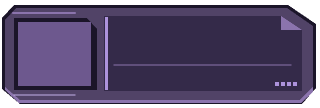
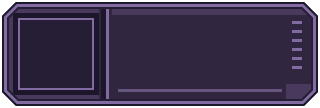
UI: align scene layouts and shared console artwork in visual review branch

diff --git a/Assets/Scripts/Title/SongSelectMenuUI.cs b/Assets/Scripts/Title/SongSelectMenuUI.cs
@@ -359,7 +359,7 @@ public sealed class SongSelectMenuUI : MonoBehaviour
         if(arcadeMotion!=null) arcadeMotion.enabled=false;
         var detail=transform.Find("SelectedTrackPanel") as RectTransform;
         var background=transform.Find("Background")?.GetComponent<Image>();
-        if(background!=null) { background.sprite=null; background.color=new Color32(35,28,48,255); }
+        if(background!=null) { background.sprite=null; background.color=new Color32(29,23,43,255); }
         foreach(Transform child in transform)
             if(child.name.StartsWith("Arcade_",StringComparison.Ordinal) || child.name=="BottomRule")
                 child.gameObject.SetActive(false);
@@ -372,12 +372,18 @@ public sealed class SongSelectMenuUI : MonoBehaviour
                 child.name=="DetailRule" || child.name=="DifficultyLabel" || child.name=="InfoHeading")
                 child.gameObject.SetActive(false);
         var shelfBg=listArea.GetComponent<Image>();
-        if(shelfBg!=null) { shelfBg.sprite=null; shelfBg.color=new Color32(47,38,63,255); }
+        if(shelfBg!=null) { shelfBg.sprite=RuruConsoleUI.Shell; shelfBg.type=Image.Type.Sliced; shelfBg.color=Color.white; }
         var detailBg=detail.GetComponent<Image>();
         if(detailBg!=null) detailBg.color=Color.clear;
 
-        Place(listArea,.045f,.105f,.575f,.825f);
-        Place(detail,.595f,.105f,.955f,.825f);
+        Place(listArea,.040f,.105f,.600f,.835f);
+        Place(detail,.620f,.105f,.960f,.835f);
+        var header = RuruConsoleUI.Frame(transform,"LibraryHeaderHousing",.040f,.850f,.960f,.971f,RuruConsoleUI.Inset);
+        if(background!=null) header.transform.SetSiblingIndex(background.transform.GetSiblingIndex()+1);
+        var footer = RuruConsoleUI.Frame(transform,"LibraryFooterHousing",.040f,.018f,.960f,.091f,RuruConsoleUI.Inset);
+        footer.transform.SetSiblingIndex(header.transform.GetSiblingIndex()+1);
+        RuruConsoleUI.Strip(transform,"LibraryHeaderAccent",.755f,.901f,.925f,.906f,RuruConsoleUI.Lilac);
+        RuruConsoleUI.Text(transform,"LibraryDeviceLabel","PINO / BEAT DECK",.745f,.912f,.925f,.949f,21,RuruConsoleUI.Muted,TextAlignmentOptions.MidlineRight,true);
         Place(transform.Find("PageHeading") as RectTransform,.19f,.875f,.70f,.955f);
         Place(transform.Find("PageSubtitle") as RectTransform,.19f,.84f,.72f,.88f);
         Place(transform.Find("Footnote") as RectTransform,.055f,.025f,.945f,.086f);
@@ -397,8 +403,8 @@ public sealed class SongSelectMenuUI : MonoBehaviour
             if(trackButtons[i]==null) continue;
             var row=trackButtons[i].transform as RectTransform;
             int col=i%2, line=i/2;
-            float l=.027f+col*.477f, b=.54f-line*.225f;
-            Place(row,l,b,l+.465f,b+.212f);
+            float l=.035f+col*.470f, b=.535f-line*.222f;
+            Place(row,l,b,l+.460f,b+.207f);
             row.localRotation=Quaternion.identity;
             row.localScale=Vector3.one;
             foreach(Transform child in row)
@@ -421,7 +427,7 @@ public sealed class SongSelectMenuUI : MonoBehaviour
             if(i<trackRowLabels.Length && trackRowLabels[i]!=null)
             {
                 var title=trackRowLabels[i];
-                Place(title.rectTransform,.365f,.44f,.87f,.83f);
+                Place(title.rectTransform,.365f,.44f,.875f,.83f);
                 title.alignment=TextAlignmentOptions.MidlineLeft;
                 title.font=RuruConsoleUI.Font(); title.enableAutoSizing=true;
                 title.fontSizeMin=15; title.fontSizeMax=31;
@@ -466,7 +472,7 @@ public sealed class SongSelectMenuUI : MonoBehaviour
         if(previewStatus!=null)
         {
             Place(previewStatus.rectTransform,.08f,.20f,.92f,.25f);
-            previewStatus.color=RuruConsoleUI.Ink;previewStatus.alignment=TextAlignmentOptions.MidlineLeft;
+            previewStatus.color=RuruConsoleUI.Paper;previewStatus.alignment=TextAlignmentOptions.MidlineLeft;
         }
         var meter=RuruConsoleUI.Strip(detail,"PreviewMeter",.08f,.17f,.92f,.183f,new Color32(148,126,182,255));
         previewMeter=RuruConsoleUI.Strip(meter.transform,"Fill",0,0,0,1,new Color32(72,49,109,255)).rectTransform;
@@ -959,10 +965,10 @@ public sealed class SongSelectMenuUI : MonoBehaviour
             {
                 bool current=valid && index==selectedIndex;
                 cartridgeFaces[slot].sprite=current?cartridgeActive:cartridgeNormal;
-                Color ink=current?RuruConsoleUI.Ink:RuruConsoleUI.Paper;
+                Color ink=RuruConsoleUI.Paper;
                 if(slot<trackRowLabels.Length && trackRowLabels[slot]!=null) trackRowLabels[slot].color=ink;
-                if(rowNumbers[slot]!=null) rowNumbers[slot].color=current?RuruConsoleUI.Ink:RuruConsoleUI.Muted;
-                if(rowLevelLabels[slot]!=null) rowLevelLabels[slot].color=current?RuruConsoleUI.Ink:RuruConsoleUI.Lilac;
+                if(rowNumbers[slot]!=null) rowNumbers[slot].color=RuruConsoleUI.Muted;
+                if(rowLevelLabels[slot]!=null) rowLevelLabels[slot].color=current?RuruConsoleUI.Mint:RuruConsoleUI.Lilac;
                 if(cartridgeCovers[slot]!=null) cartridgeCovers[slot].sprite=valid && entry.jacket!=null?entry.jacket:cartridgeEmpty;
             }
             else if (slot < trackRowBackgrounds.Length &&

diff --git a/Assets/Scripts/MousePlay/MouseTutorialController.cs b/Assets/Scripts/MousePlay/MouseTutorialController.cs
@@ -714,13 +714,10 @@ public sealed class MouseTutorialController : MonoBehaviour
         AddImage(screen, new Color(.065f, .052f, .085f, .94f), true);
 
         RectTransform panel = AddRect("DialoguePanel", screen,
-            new Vector2(.16f, .10f), new Vector2(.84f, .38f));
+            new Vector2(.11f, .10f), new Vector2(.89f, .38f));
         Image dialoguePanelImage = AddImage(panel,
             new Color(.18f, .14f, .24f, 1f), true);
-        RuruOriginalUITheme originalUI = Resources.Load<RuruOriginalUITheme>("RuruOriginalUITheme");
-        Sprite dialogueArt = originalUI != null && originalUI.confirmationPanel != null
-            ? originalUI.confirmationPanel
-            : Resources.Load<Sprite>("RuruArt/UI/UI_Panel");
+        Sprite dialogueArt = RuruConsoleUI.Shell;
         if (dialogueArt != null)
         {
             dialoguePanelImage.sprite = dialogueArt;
@@ -734,18 +731,19 @@ public sealed class MouseTutorialController : MonoBehaviour
         dialogueHeading = AddLabel(heading, 25f, 
             new Color(.83f, .74f, .90f, 1f), TextAlignmentOptions.Center);
 
+        RuruConsoleUI.Frame(panel,"SpeakerHousing",.025f,.73f,.46f,.94f,RuruConsoleUI.Inset);
+        RuruConsoleUI.Strip(panel,"DialogueSeparator",.035f,.705f,.79f,.715f,RuruConsoleUI.Lilac);
         RectTransform speaker = AddRect("Speaker", panel,
             new Vector2(.035f, .72f), new Vector2(.45f, .91f));
         speakerText = AddLabel(speaker, 30f,
-            dialogueArt != null ? new Color(.15f,.10f,.22f,1f) : Color.white,
+            RuruConsoleUI.Lilac,
             TextAlignmentOptions.MidlineLeft);
         speakerText.fontStyle = FontStyles.Bold;
 
         RectTransform body = AddRect("Dialogue", panel,
             new Vector2(.035f, .27f), new Vector2(.79f, .70f));
         dialogueText = AddLabel(body, 27f,
-            dialogueArt != null ? new Color(.18f,.13f,.25f,1f)
-                : new Color(.94f, .92f, .97f, 1f),
+            RuruConsoleUI.Paper,
             TextAlignmentOptions.MidlineLeft);
         dialogueText.enableWordWrapping = true;
 
@@ -784,10 +782,7 @@ public sealed class MouseTutorialController : MonoBehaviour
         guideRoot = root.gameObject;
         Image guideBackground = AddImage(root,
             new Color(.14f, .11f, .19f, .93f), false);
-        RuruOriginalUITheme originalUI = Resources.Load<RuruOriginalUITheme>("RuruOriginalUITheme");
-        Sprite panelArt = originalUI != null && originalUI.confirmationPanel != null
-            ? originalUI.confirmationPanel
-            : Resources.Load<Sprite>("RuruArt/UI/UI_Panel");
+        Sprite panelArt = RuruConsoleUI.Shell;
         if (panelArt != null)
         {
             guideBackground.sprite = panelArt;
@@ -803,21 +798,19 @@ public sealed class MouseTutorialController : MonoBehaviour
         RectTransform number = AddRect("ChapterIndex", root,
             new Vector2(.075f, .74f), new Vector2(.925f, .86f));
         guideProgress = AddLabel(number, 24f,
-            panelArt != null ? new Color(.35f,.23f,.47f,1f)
-                : new Color(.78f, .70f, .86f, 1f),
+            RuruConsoleUI.Lilac,
             TextAlignmentOptions.MidlineLeft);
 
         RectTransform title = AddRect("ChapterTitle", root,
             new Vector2(.075f, .52f), new Vector2(.925f, .72f));
         guideTitle = AddLabel(title, 26f,
-            panelArt != null ? new Color(.15f,.10f,.22f,1f) : Color.white,
+            RuruConsoleUI.Paper,
             TextAlignmentOptions.MidlineLeft);
 
         RectTransform body = AddRect("ChapterDescription", root,
             new Vector2(.34f, .10f), new Vector2(.93f, .48f));
         guideBody = AddLabel(body, 22f,
-            panelArt != null ? new Color(.25f,.18f,.34f,1f)
-                : new Color(.89f, .86f, .93f, 1f),
+            RuruConsoleUI.Paper,
             TextAlignmentOptions.MidlineLeft);
         guideBody.enableWordWrapping = true;
 
@@ -890,10 +883,8 @@ public sealed class MouseTutorialController : MonoBehaviour
         RectTransform rect = AddRect(name, parent, min, max);
         Image image = AddImage(rect,
             new Color(.36f, .28f, .44f, 1f), true);
-        RuruOriginalUITheme originalUI = Resources.Load<RuruOriginalUITheme>("RuruOriginalUITheme");
-        Sprite buttonArt = originalUI != null && originalUI.titleButton != null
-            ? originalUI.titleButton
-            : Resources.Load<Sprite>("RuruArt/UI/UI_Button");
+        bool primary = name=="NextDialogue" || name=="LeaveTutorial";
+        Sprite buttonArt = primary?RuruConsoleUI.MainKey:RuruConsoleUI.AltKey;
         if (buttonArt != null)
         {
             image.sprite = buttonArt;
@@ -915,7 +906,7 @@ public sealed class MouseTutorialController : MonoBehaviour
         RectTransform textRect = AddRect("Label", rect,
             new Vector2(.02f, .02f), new Vector2(.98f, .98f));
         captionLabel = AddLabel(textRect, 22f,
-            buttonArt != null ? new Color(.15f,.10f,.22f,1f) : Color.white,
+            primary?RuruConsoleUI.Ink:RuruConsoleUI.Paper,
             TextAlignmentOptions.Center);
         captionLabel.text = caption;
         return button;

diff --git a/Assets/MouseMode/MouseGameplayScoreComboHUD.cs b/Assets/MouseMode/MouseGameplayScoreComboHUD.cs
@@ -17,6 +17,7 @@ public sealed class MouseGameplayScoreComboHUD : MonoBehaviour
     private TextMeshProUGUI comboValue;
     private TextMeshProUGUI scoreValue;
     private TMP_Text songTitle, songTime;
+    private Image songCover;
     private RectTransform songProgress;
     private MouseModeChartAsset displayedChart;
     private int displayedSecond=-1;
@@ -33,19 +34,25 @@ public sealed class MouseGameplayScoreComboHUD : MonoBehaviour
         ResolveChartPlayer();
         TMP_FontAsset font = RuruConsoleUI.Font(true) ?? ResolveFont();
 
-        CreateText("Combo_Label", font, "COMBO", 19f,
+        var comboLabel=CreateText("Combo_Label", font, "COMBO", 19f,
             new Vector2(.5f, 1f), new Vector2(124f, -98f),
             new Vector2(105f, 32f), TextAlignmentOptions.MidlineRight, false);
         comboValue = CreateText("Combo_Value", font, "000", 38f,
             new Vector2(.5f, 1f), new Vector2(250f, -90f),
             new Vector2(195f, 54f), TextAlignmentOptions.MidlineLeft, true);
-        CreateText("Score_Label", font, "SCORE", 19f,
+        var scoreLabel=CreateText("Score_Label", font, "SCORE", 19f,
             new Vector2(1f, 1f), new Vector2(-427f, -98f),
             new Vector2(100f, 32f), TextAlignmentOptions.MidlineRight, false);
         scoreValue = CreateText("Score_Value", font, "0000000", 35f,
             new Vector2(1f, 1f), new Vector2(-88f, -90f),
             new Vector2(310f, 54f), TextAlignmentOptions.MidlineRight, true);
 
+        // Align the three live readouts to the existing split HUD artwork.
+        // Preserve the playable field and the source frame itself.
+        PlaceTop(comboLabel,.415f,.505f,88f,38f);
+        PlaceTop(comboValue,.515f,.695f,78f,54f);
+        PlaceTop(scoreLabel,.782f,.845f,88f,38f);
+        PlaceTop(scoreValue,.850f,.950f,78f,54f);
         BuildSongReadout();
         RefreshValues(true);
         RefreshSongReadout();
@@ -70,12 +77,26 @@ public sealed class MouseGameplayScoreComboHUD : MonoBehaviour
         }
     }
 
+    private static void PlaceTop(TMP_Text label,float l,float r,float top,float height)
+    {
+        var rt=label.rectTransform;
+        rt.anchorMin=new Vector2(l,1f); rt.anchorMax=new Vector2(r,1f);
+        rt.pivot=new Vector2(.5f,1f);
+        rt.offsetMin=new Vector2(0f,-top-height); rt.offsetMax=new Vector2(0f,-top);
+        label.enableAutoSizing=true; label.fontSizeMin=label.fontSize*.65f; label.fontSizeMax=label.fontSize;
+        label.overflowMode=TextOverflowModes.Ellipsis;
+    }
+
     private void BuildSongReadout()
     {
-        var root=RuruConsoleUI.Region(transform,"SongReadout",.325f,1,.525f,1);
+        var art=RuruConsoleUI.Region(transform,"SongJacketReadout",.038f,1f,.077f,1f);
+        art.pivot=new Vector2(.5f,1f);
+        art.sizeDelta=new Vector2(0f,68f); art.anchoredPosition=new Vector2(0f,-86f);
+        songCover=art.gameObject.AddComponent<Image>(); songCover.preserveAspect=true; songCover.raycastTarget=false; songCover.enabled=false;
+        var root=RuruConsoleUI.Region(transform,"SongReadout",.095f,1,.325f,1);
         root.pivot=new Vector2(.5f,1);
         root.sizeDelta=new Vector2(0,72);
-        root.anchoredPosition=new Vector2(0,-77);
+        root.anchoredPosition=new Vector2(0,-82);
         songTitle=RuruConsoleUI.Text(root,"SongTitle","",0,.42f,1,1,26,RuruConsoleUI.Paper);
         songTime=RuruConsoleUI.Text(root,"SongTime","00:00",0,0,1,.40f,16,RuruConsoleUI.Muted,TextAlignmentOptions.MidlineRight,true);
         var track=RuruConsoleUI.Strip(root,"Track",0,.23f,.69f,.30f,new Color32(98,78,130,255));
@@ -89,6 +110,11 @@ public sealed class MouseGameplayScoreComboHUD : MonoBehaviour
         {
             displayedChart=chart;
             songTitle.text=chart!=null?chart.displayTitle:"";
+            if(songCover!=null)
+            {
+                songCover.sprite=chart!=null?chart.songSelectJacket:null;
+                songCover.enabled=songCover.sprite!=null;
+            }
             displayedSecond=-1;
         }
         float elapsed=Mathf.Max(0,chartPlayer.SongElapsedSeconds);

diff --git a/Assets/Scripts/MousePlay/MouseModeResultFlow.cs b/Assets/Scripts/MousePlay/MouseModeResultFlow.cs
@@ -279,13 +279,15 @@ public sealed class MouseModeResultFlow : MonoBehaviour
         RectTransform stage=RuruConsoleUI.Stage(screen,"ResultConsoleStage");
         var paper=RuruConsoleUI.Paper; var muted=RuruConsoleUI.Muted;
         var lilac=RuruConsoleUI.Lilac; var center=TextAlignmentOptions.Center;
+        RuruConsoleUI.Frame(stage,"ResultHeaderHousing",.065f,.872f,.935f,.972f,RuruConsoleUI.Inset);
+        RuruConsoleUI.Frame(stage,"ResultActionHousing",.065f,.052f,.935f,.180f,RuruConsoleUI.Inset);
         var logo=RuruConsoleUI.Region(stage,"PinoWingMark",.075f,.885f,.125f,.958f).gameObject.AddComponent<Image>();
         logo.sprite=Resources.Load<Sprite>("RuruArt/UI/PinoWingMark");logo.preserveAspect=true;logo.raycastTarget=false;logo.enabled=logo.sprite!=null;
         RuruConsoleUI.Text(stage,"DeviceId","RURU IN BEAT  /  SESSION LOG",.135f,.895f,.52f,.945f,27,muted,display:true);
         resultLabel=RuruConsoleUI.Text(stage,"Outcome","RESULT",.56f,.885f,.925f,.95f,48,lilac,TextAlignmentOptions.MidlineRight,true);
         RuruConsoleUI.Strip(stage,"HeaderRule",.075f,.878f,.925f,.881f,lilac);
 
-        var visual=RuruConsoleUI.Frame(stage,"PinoMonitor",.075f,.205f,.355f,.85f,RuruConsoleUI.Shell).rectTransform;
+        var visual=RuruConsoleUI.Frame(stage,"PinoMonitor",.065f,.205f,.355f,.85f,RuruConsoleUI.Shell).rectTransform;
         RuruConsoleUI.Text(visual,"MonitorLabel","PINO / STATUS",.08f,.87f,.92f,.96f,26,muted,display:true);
         RuruConsoleUI.Frame(visual,"PortraitWell",.055f,.235f,.945f,.85f,RuruConsoleUI.Inset);
         var ring=RuruConsoleUI.Region(visual,"PinoBeatRing",.10f,.26f,.90f,.83f).gameObject.AddComponent<Image>();
@@ -297,14 +299,15 @@ public sealed class MouseModeResultFlow : MonoBehaviour
         reactionLabel=RuruConsoleUI.Text(visual,"PinoReaction","",.09f,.035f,.91f,.205f,24,paper);
         reactionLabel.enableWordWrapping=true;
 
-        var stats=RuruConsoleUI.Frame(stage,"ResultStatisticsCard",.37f,.205f,.925f,.85f,RuruConsoleUI.Shell).rectTransform;
+        var stats=RuruConsoleUI.Frame(stage,"ResultStatisticsCard",.37f,.205f,.935f,.85f,RuruConsoleUI.Shell).rectTransform;
         songLabel=RuruConsoleUI.Text(stats,"SongTitle","SONG RESULT",.045f,.86f,.955f,.96f,42,paper);
         var score=RuruConsoleUI.Frame(stats,"ScoreDisplay",.04f,.56f,.96f,.85f,RuruConsoleUI.Inset).rectTransform;
         RuruConsoleUI.Text(score,"ScoreCaption","SCORE",.05f,.69f,.60f,.94f,23,muted,display:true);
         scoreLabel=RuruConsoleUI.Text(score,"ScoreValue","0000000",.045f,.17f,.70f,.76f,91,paper,display:true);
-        RuruConsoleUI.Text(score,"RankCaption","RANK",.75f,.71f,.96f,.94f,22,muted,center,true);
+        RuruConsoleUI.Frame(score,"RankBadge",.735f,.09f,.965f,.92f,RuruConsoleUI.Shell);
+        RuruConsoleUI.Text(score,"RankCaption","RANK",.75f,.71f,.96f,.90f,22,muted,center,true);
         rankLabel=RuruConsoleUI.Text(score,"RankValue","-",.75f,.15f,.96f,.75f,92,lilac,center,true);
-        var scoreTrack=RuruConsoleUI.Strip(score,"ScoreTrack",.05f,.075f,.68f,.115f,new Color32(85,72,110,255));
+        var scoreTrack=RuruConsoleUI.Strip(score,"ScoreTrack",.05f,.075f,.68f,.115f,new Color32(103,84,127,255));
         scoreFill=RuruConsoleUI.Strip(scoreTrack.transform,"ScoreFill",0,0,0,1,lilac).rectTransform;
 
         string[] j={"PERFECT","GREAT","GOOD","MISS"};

diff --git a/Assets/Scripts/Title/SettingsCategoryController.cs b/Assets/Scripts/Title/SettingsCategoryController.cs
@@ -63,6 +63,7 @@ public class SettingsCategoryController : MonoBehaviour
                     categories[i].button,
                     index
                 );
+                StyleCategory(categories[i]);
             }
 
             // 시작할 때 Focus 전부 숨김
@@ -80,6 +81,50 @@ public class SettingsCategoryController : MonoBehaviour
             if (category.page != null && category.page.name == "ControlPage")
                 BuildMouseControlGuide(category.page.transform);
         RefreshSelected();
+    }
+
+    // Keep the authored window and its controls. Replace only the category
+    // chrome so selected, hovered and idle states use the shared deck art.
+    private static void StyleCategory(CategoryItem item)
+    {
+        if(item.button==null) return;
+        var baseImage=item.button.GetComponent<Image>();
+        if(baseImage!=null)
+        {
+            baseImage.sprite=RuruConsoleUI.AltKey;
+            baseImage.type=Image.Type.Sliced;
+            baseImage.color=Color.white;
+        }
+        if(item.selectedBG!=null)
+        {
+            var art=item.selectedBG.GetComponent<Image>();
+            if(art!=null)
+            {
+                art.sprite=RuruConsoleUI.MainKey;
+                art.type=Image.Type.Sliced;
+                art.color=Color.white;
+                art.raycastTarget=false;
+            }
+            var rt=item.selectedBG.transform as RectTransform;
+            if(rt!=null)
+            {
+                rt.anchorMin=Vector2.zero; rt.anchorMax=Vector2.one;
+                rt.offsetMin=rt.offsetMax=Vector2.zero;
+                rt.SetAsFirstSibling();
+            }
+        }
+        if(item.focusBG!=null)
+        {
+            var art=item.focusBG.GetComponent<Image>();
+            if(art!=null)
+            {
+                art.sprite=RuruConsoleUI.AltKey;
+                art.type=Image.Type.Sliced;
+                art.color=new Color(.82f,.76f,.94f,.95f);
+                art.raycastTarget=false;
+                art.transform.SetAsFirstSibling();
+            }
+        }
     }
 
     private static void BuildMouseControlGuide(Transform page)
@@ -290,6 +335,13 @@ public class SettingsCategoryController : MonoBehaviour
                 categories[i].selectedBG.SetActive(selected);
             }
 
+            if(categories[i].button!=null)
+            {
+                var label=categories[i].button.transform.Find("Label")?.GetComponent<TMP_Text>();
+                if(label!=null) label.color=selected?RuruConsoleUI.Ink:RuruConsoleUI.Paper;
+                var icon=categories[i].button.transform.Find("Icon")?.GetComponent<Image>();
+                if(icon!=null) icon.color=selected?RuruConsoleUI.Ink:RuruConsoleUI.Paper;
+            }
             if (categories[i].page != null)
             {
                 categories[i].page.SetActive(selected);

diff --git a/Assets/Scripts/MousePlay/MouseRhythmPauseUI.cs b/Assets/Scripts/MousePlay/MouseRhythmPauseUI.cs
@@ -395,11 +395,12 @@ public sealed class MouseRhythmPauseUI : MonoBehaviour
         var scrim=pausePanel.GetComponent<Image>();
         if(scrim!=null) scrim.color=new Color32(24,20,36,208);
         var stage=RuruConsoleUI.Stage(pausePanel.transform,"PauseConsoleStage");
-        var area=RuruConsoleUI.Frame(stage,"PauseArtMenu",.315f,.235f,.685f,.765f,RuruConsoleUI.Shell).rectTransform;
+        var area=RuruConsoleUI.Frame(stage,"PauseArtMenu",.285f,.225f,.715f,.775f,RuruConsoleUI.Shell).rectTransform;
+        RuruConsoleUI.Frame(area,"PauseHeaderHousing",.055f,.685f,.945f,.963f,RuruConsoleUI.Inset);
         pauseMenuContent=area;
         RuruConsoleUI.Text(area,"DeviceId","RURU IN BEAT / SYSTEM",.09f,.85f,.91f,.95f,23,RuruConsoleUI.Muted,display:true);
         RuruConsoleUI.Text(area,"PauseHeading","PAUSED",.09f,.69f,.91f,.85f,60,RuruConsoleUI.Paper,display:true);
-        RuruConsoleUI.Strip(area,"HeaderRule",.09f,.675f,.91f,.68f,RuruConsoleUI.Lilac);
+        RuruConsoleUI.Strip(area,"HeaderRule",.09f,.655f,.91f,.662f,RuruConsoleUI.Lilac);
         RuruConsoleUI.Text(area,"PauseControlHint","재개하면 3초 카운트다운이 시작돼요.",.09f,.56f,.91f,.65f,24,RuruConsoleUI.Muted);
         RuruConsoleUI.Key(area,"ResumeFromPause","계속하기",.09f,.36f,.91f,.54f,true,ResumeGame);
         RuruConsoleUI.Key(area,"RestartFromPause","다시 도전",.09f,.15f,.49f,.32f,false,()=>LeavePausedScene(gameObject.scene.name,false));

diff --git a/Assets/Scripts/SceneLoadingTransition.cs b/Assets/Scripts/SceneLoadingTransition.cs
@@ -89,7 +89,8 @@ public sealed class SceneLoadingTransition : MonoBehaviour
         bg.raycastTarget = true;
 
         var stage=RuruConsoleUI.Stage(transform,"LoadingConsoleStage");
-        var panel=RuruConsoleUI.Frame(stage,"LoadingConsole",.295f,.33f,.705f,.67f,RuruConsoleUI.Shell).rectTransform;
+        var panel=RuruConsoleUI.Frame(stage,"LoadingConsole",.255f,.33f,.745f,.67f,RuruConsoleUI.Shell).rectTransform;
+        RuruConsoleUI.Frame(panel,"LoadingDisplayHousing",.045f,.445f,.955f,.955f,RuruConsoleUI.Inset);
         RuruConsoleUI.Text(panel,"DeviceId","RURU IN BEAT / SYSTEM",.07f,.78f,.93f,.94f,23,RuruConsoleUI.Muted,display:true);
         RuruConsoleUI.Text(panel,"LoadingTitle","LOADING",.07f,.46f,.72f,.77f,51,RuruConsoleUI.Paper,display:true);
         progressText=RuruConsoleUI.Text(panel,"LoadingPercent","00%",.72f,.46f,.93f,.77f,43,RuruConsoleUI.Mint,TextAlignmentOptions.MidlineRight,true);
